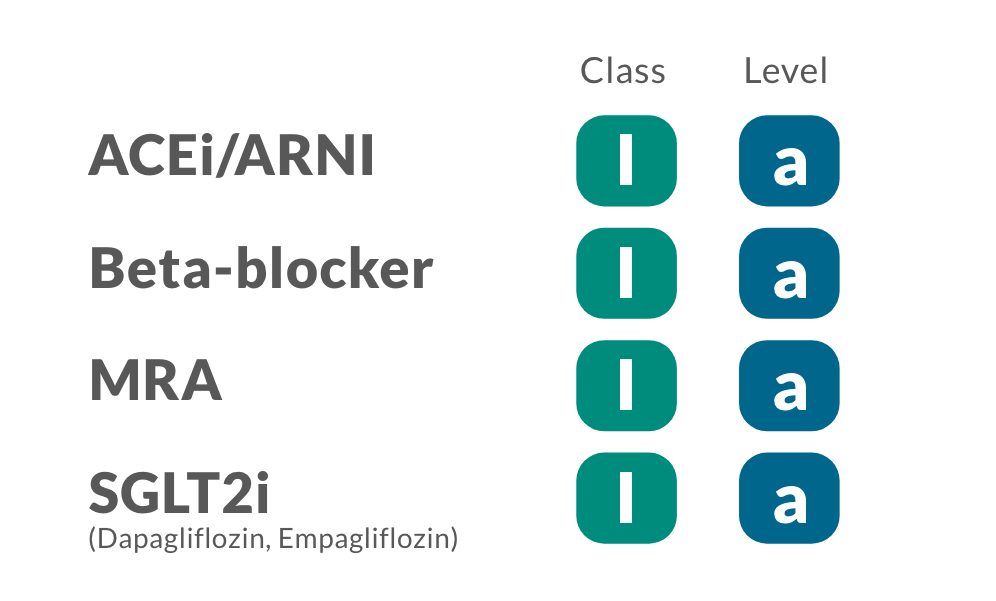
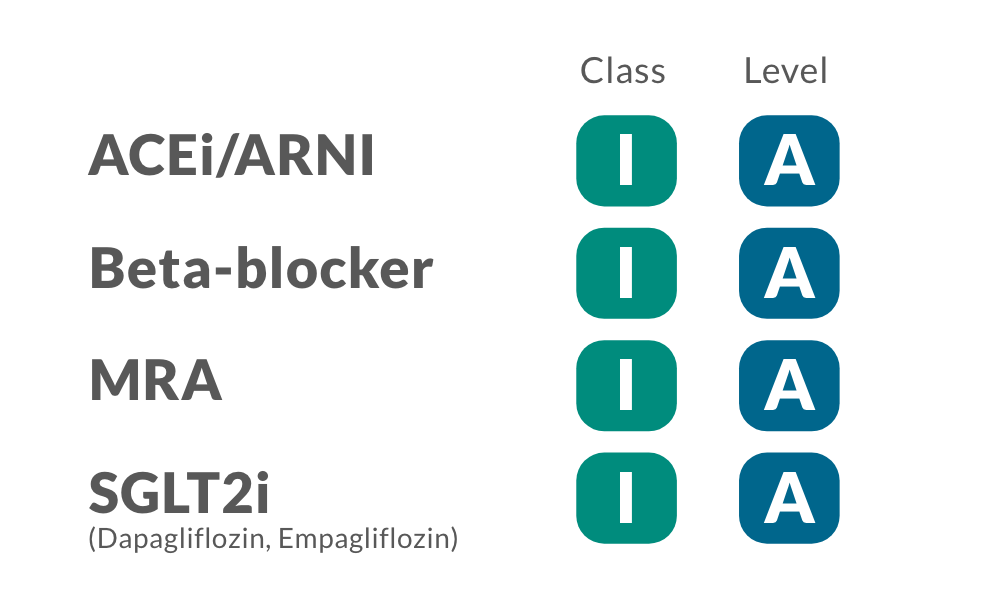
final-values

diff --git a/package/src/components/patient/DynamicSglt2iAccordion.tsx b/package/src/components/patient/DynamicSglt2iAccordion.tsx
@@ -560,11 +560,11 @@ Continue delivering the best care by implementing the guideline-recommended foun
             content: (
               <div className="flex flex-col h-full">
                 <p className="text-base mb-4 text-gray-700">
-                Did you know that SGLT2is, such as JARDIANCE<sup>®</sup> (empagliflozin), provide protection by significantly reducing the risk of CV death for patients with eCVD and T2D?<sup>*5</sup>
+                Did you know that SGLT2is, such as JARDIANCE<sup>®</sup> (empagliflozin), provide protection by significantly reducing the risk of CV death for patients with eCVD and T2D?<sup>*8</sup>
                 </p>
                 <div className="flex items-center justify-between mt-4">
                   <Image
-                    src="/icons/38c.png"
+                    src="/PP-new/38.png"
                     alt="Heart"
                     title="Heart"
                     width={500}
@@ -573,7 +573,7 @@ Continue delivering the best care by implementing the guideline-recommended foun
                   />
                 </div>
                 <p className="text-base mt-6 text-gray-700">
-                The earlier you initiate JARDIANCE<sup>®</sup> (empagliflozin), the more likely your patients are to benefit from improved long-term outcomes.<sup>*5,6</sup>  
+                The earlier you initiate JARDIANCE<sup>®</sup> (empagliflozin), the more likely your patients are to benefit from improved long-term outcomes.<sup>*5,9</sup>  
                 </p>
               </div>
             ),
@@ -583,7 +583,7 @@ Continue delivering the best care by implementing the guideline-recommended foun
             content: (
               <div className="flex flex-col h-full">
                 <p className="text-base mb-4 text-gray-700">
-                 SGLT2is, such as JARDIANCE<sup>®</sup>, are Class 1 recommended for first-line use in patients like Joana, to reduce the cardiovascular risk, heart failure hospitalizations, and CV and kidney failure risk.<sup>1</sup>
+                 SGLT2is, such as JARDIANCE<sup>®</sup>, are Class 1 recommended for first-line use in patients like Joana, to reduce the cardiovascular risk, heart failure hospitalizations, and CV and kidney failure risk.<sup>3</sup>
                 </p>
                 <div className="mb-6">
                   <Image
@@ -596,7 +596,7 @@ Continue delivering the best care by implementing the guideline-recommended foun
                   />
                 </div>
                 <p className="text-base text-gray-700">
-                 Initiate JARDIANCE<sup>®</sup> (empagliflozin) early so that your patients with eCVD and T2D like Joana can benefit from significant risk reduction – as early as Day 59!<sup>*5,6</sup>
+                 Initiate JARDIANCE<sup>®</sup> (empagliflozin) <b>right from the start</b> so that your patients with eCVD and T2D like Joana can benefit from significant risk reduction – as early as Day 59!<sup>*5,9</sup>
                 </p>
               </div>
             ),
@@ -610,15 +610,15 @@ Continue delivering the best care by implementing the guideline-recommended foun
                 </p>
 
                 <p className="text-lg text-center text-gray-700 mb-6">
-                <b>uACR</b> is a prognostic marker for HF and CVD outcomes, and CKD progression.<sup>24</sup>
+                <b>uACR</b> is a prognostic marker for HF and CVD outcomes, and CKD progression.<sup>6</sup>
                 </p>
 
                 <p className="text-lg text-center text-gray-700 mb-6">
-                 <b>Elevated uACR or reduced eGFR</b>  is associated with an increased risk of CV mortality, <b>independently of each other</b>.<sup>15</sup>
+                 <b>Elevated uACR or reduced eGFR</b>  is associated with an increased risk of CV mortality, <b>independently of each other</b>.<sup>7</sup>
                 </p>
 
                 <p className="text-lg text-center text-gray-700 mb-8">
-                  <b>But, uACR</b> identifies CV risk much earlier than eGFR decline.<sup>23</sup>
+                  <b>But, uACR</b> identifies CV risk <b>much earlier</b> than eGFR decline.<sup>7</sup>
                 </p>
 
                  <img src="/PP-new/uACR-symbols.png" alt="uACR and eGFR" title="uACR and eGFR" width={400} height={150} className="object-contain" />
@@ -658,12 +658,12 @@ Continue delivering the best care by implementing the guideline-recommended foun
             content: (
               <div className="flex flex-col h-full">
                 <p className="text-base mb-4 text-gray-700">
-                 By prescribing Joana an SGLT2i such as JARDIANCE<sup>®</sup> (empagliflozin), soon after her diagnosis, you helped protect her by reducing her risk of CV death.<sup>*†5</sup>
+                 By prescribing Joana an SGLT2i such as JARDIANCE<sup>®</sup> (empagliflozin), soon after her diagnosis, you helped protect her by reducing her risk of CV death.<sup>*8</sup>
 
                 </p>
                 <div className="flex items-center justify-between mt-4">
                   <Image
-                    src="/icons/38c.png"
+                    src="/PP-new/38.png"
                     alt="Heart"
                     title="Heart"
                     width={500}
@@ -672,7 +672,7 @@ Continue delivering the best care by implementing the guideline-recommended foun
                   />
                 </div>
                 <p className="text-base mt-6 text-gray-700">
-                 And did you know that JARDIANCE<sup>®</sup> is the only SGLT2i proven to reduce the risk of CV death in patients with eCVD and T2D<sup>*†‡5</sup>
+                 And did you know that JARDIANCE<sup>®</sup> (empagliflozin) is the <b>first and only</b> SGLT2i proven to reduce the risk of CV death in patients with eCVD and T2D<sup>*†‡8</sup>
                 </p>
               </div>
             ),
@@ -682,7 +682,7 @@ Continue delivering the best care by implementing the guideline-recommended foun
             content: (
               <div className="flex flex-col h-full">
                 <p className="text-base mb-4 text-gray-700">
-                  You are well aware: SGLT2is, such as JARDIANCE<sup>®</sup> (empagliflozin), are Class 1 recommended for first-line use in patients like Joana, to reduce the cardiovascular risk.<sup>1</sup>
+                  You are well aware: SGLT2is, such as JARDIANCE<sup>®</sup> (empagliflozin), are Class 1 recommended for first-line use in patients like Joana, to reduce the cardiovascular risk.<sup>3</sup>
                 </p>
                 <div className="mb-6">
                   <Image
@@ -709,15 +709,15 @@ Continue delivering the best care by implementing the guideline-recommended foun
                 </p>
 
                 <p className="text-lg text-center text-gray-700 mb-6">
-                <b>uACR</b> is a prognostic marker for HF and CVD outcomes, and CKD progression.<sup>24</sup>
+                <b>uACR</b> is a prognostic marker for HF and CVD outcomes, and CKD progression.<sup>6</sup>
                 </p>
 
                 <p className="text-lg text-center text-gray-700 mb-6">
-                 <b>Elevated uACR or reduced eGFR</b>  is associated with an increased risk of CV mortality, <b>independently of each other</b>.<sup>15</sup>
+                 <b>Elevated uACR or reduced eGFR</b>  is associated with an increased risk of CV mortality, <b>independently of each other</b>.<sup>7</sup>
                 </p>
 
                 <p className="text-lg text-center text-gray-700 mb-8">
-                  <b>But, uACR</b> identifies CV risk much earlier than eGFR decline.<sup>23</sup>
+                  <b>But, uACR</b> identifies CV risk <b>much earlier</b> than eGFR decline.<sup>7</sup>
                 </p>
 
                 <img src="/PP-new/uACR-symbols.png" alt="uACR and eGFR" title="uACR and eGFR" width={400} height={150} className="object-contain" />
@@ -758,11 +758,11 @@ Continue delivering the best care by implementing the guideline-recommended foun
               <div className="flex flex-col h-full">
                
                 <p className="text-base mb-4 text-gray-700">
-                  Did you know that SGLT2is, such as JARDIANCE<sup>®</sup> (empagliflozin), provide protection by significantly reducing the risk of CV death for patients with eCVD and T2D?<sup>*†5</sup>
+                  Did you know that SGLT2is, such as JARDIANCE<sup>®</sup> (empagliflozin), provide protection by significantly reducing the risk of CV death for patients with eCVD and T2D?<sup>*†8</sup>
                 </p>
                 <div className="flex items-center justify-between mt-4">
                   <Image
-                    src="/icons/38c.png"
+                    src="/PP-new/38.png"
                     alt="Heart"
                     title="Heart"
                     width={500}
@@ -771,7 +771,7 @@ Continue delivering the best care by implementing the guideline-recommended foun
                   />
                 </div>
                 <p className="text-base mt-6 text-gray-700">
-                  The earlier you initiate JARDIANCE<sup>®</sup> (empagliflozin), the more likely your patients are to benefit from improved long-term outcomes.<sup>*5,6</sup>  
+                  The earlier you initiate JARDIANCE<sup>®</sup> (empagliflozin), the more likely your patients are to benefit from improved long-term outcomes.<sup>*5,9</sup>  
                 </p>
               </div>
             ),
@@ -781,7 +781,7 @@ Continue delivering the best care by implementing the guideline-recommended foun
             content: (
               <div className="flex flex-col h-full">
                 <p className="text-base mb-4 text-gray-700">
-                 SGLT2is, such as JARDIANCE<sup>®</sup>, are Class 1 recommended for first-line use in patients like Joana, to reduce the cardiovascular risk, heart failure hospitalizations, and CV and kidney falure risk.<sup>1</sup>
+                 SGLT2is, such as JARDIANCE<sup>®</sup>, are Class 1 recommended for first-line use in patients like Joana, to reduce the cardiovascular risk, heart failure hospitalizations, and CV and kidney falure risk.<sup>3</sup>
                 </p>
                 <div className="mb-6">
                   <Image
@@ -794,7 +794,7 @@ Continue delivering the best care by implementing the guideline-recommended foun
                   />
                 </div>
                 <p className="text-base text-gray-700">
-                  Initiate JARDIANCE<sup>®</sup>early so that your patients with eCVD and T2D like Joana can benefit from significant risk reduction – as early as Day 59!<sup>*5,6</sup>
+                  Initiate JARDIANCE<sup>®</sup> (empagliflozin) <b>right from the start</b> so that your patients with eCVD and T2D like Joana can benefit from significant risk reduction – as early as Day 59!<sup>*5,9</sup>
                 </p>
               </div>
             ),
@@ -808,15 +808,15 @@ Continue delivering the best care by implementing the guideline-recommended foun
                 </p>
 
                 <p className="text-lg text-center text-gray-700 mb-6">
-                <b>uACR</b> is a prognostic marker for HF and CVD outcomes, and CKD progression.<sup>24</sup>
+                <b>uACR</b> is a prognostic marker for HF and CVD outcomes, and CKD progression.<sup>6</sup>
                 </p>
 
                 <p className="text-lg text-center text-gray-700 mb-6">
-                 <b>Elevated uACR or reduced eGFR</b>  is associated with an increased risk of CV mortality, <b>independently of each other</b>.<sup>15</sup>
+                 <b>Elevated uACR or reduced eGFR</b>  is associated with an increased risk of CV mortality, <b>independently of each other</b>.<sup>7</sup>
                 </p>
 
                 <p className="text-lg text-center text-gray-700 mb-8">
-                  <b>But, uACR</b> identifies CV risk much earlier than eGFR decline.<sup>23</sup>
+                  <b>But, uACR</b> identifies CV risk <b>much earlier</b> than eGFR decline.<sup>7</sup>
                 </p>
 
                 <img src="/PP-new/uACR-symbols.png" alt="uACR and eGFR" title="uACR and eGFR" width={400} height={150} className="object-contain" />
@@ -863,7 +863,7 @@ Continue delivering the best care by implementing the guideline-recommended foun
               </p>
               <div className="flex items-center justify-between mt-4">
                 <Image
-                  src="/icons/38c.png"
+                  src="/PP-new/38.png"
                   alt="Heart"
                     title="Heart"
                   width={500}

diff --git a/package/src/components/patient/GuidelinesAccordion.tsx b/package/src/components/patient/GuidelinesAccordion.tsx
@@ -196,7 +196,33 @@ export default function GuidelinesAccordion({
             </div>
           ),
         },
-        { id: "joana-slide-3", content: guidelineSlide3 },
+        {
+          id: "joana-slide-3",
+          content: (
+            <div className="space-y-8 pb-4">
+              <p className="text-2xl font-semibold text-center text-gray-800 mb-6">
+                Did you know?
+              </p>
+              <p className="text-gray-800">
+                <b>uACR</b> is a prognostic marker for HF and CVD outcomes, and CKD progression.<sup>6</sup>
+              </p>
+              <p className="text-gray-800">
+                <b>Elevated uACR or reduced eGFR</b> is associated with an increased risk of CV mortality, independently of each other.<sup>7</sup>
+              </p>
+              <p className="text-gray-800">
+                <b>But, uACR</b> identifies CV risk much earlier than eGFR decline.<sup>7</sup>
+              </p>
+              <Image
+                src="/PP-new/uACR-symbols.png"
+                alt="uACR and eGFR"
+                title="uACR and eGFR"
+                width={420}
+                height={300}
+                className="rounded-lg w-full h-auto"
+              />
+            </div>
+          ),
+        },
         {
           id: "joana-slide-4",
           content: (

diff --git a/package/src/app/joana-five-years/page.tsx b/package/src/app/joana-five-years/page.tsx
@@ -14,7 +14,7 @@ export default function JoanaFiveYearsPage() {
       backgroundImage="/backgrounds/03C.jpg"
       currentStepImage="/next-steps/joana/final/step10.png"
       showClinicalReasoning={false}
-       sglt2iAccordionTitle="Initiate SGLT2i"
+       sglt2iAccordionTitle="Don't miss the moment"
       endActions={[
         { id: 'go-back', text: 'Go back' },
         { id: 'restart', text: 'Restart' },

diff --git a/package/src/components/patient/PatientDetail.tsx b/package/src/components/patient/PatientDetail.tsx
@@ -649,7 +649,7 @@ export default function PatientDetail({ patient }: PatientDetailProps) {
                     <GuidelinesAccordion
                       patientId={patient.id}
                       patientName={patient.name}
-                      hideSlide4={patient.name === 'Joana' && (!selectedAction || selectedAction === 'add-sglt2i')}
+                      hideSlide4={patient.name === 'Joana' && (!selectedAction || selectedAction === 'add-sglt2i' || selectedAction === 'optimize-antihypertensive')}
                       hideSlide3={patient.name === 'Joana' && !selectedAction}
                       isOpen={openAccordion === 'guidelines'}
                       onToggle={(isOpen) => {